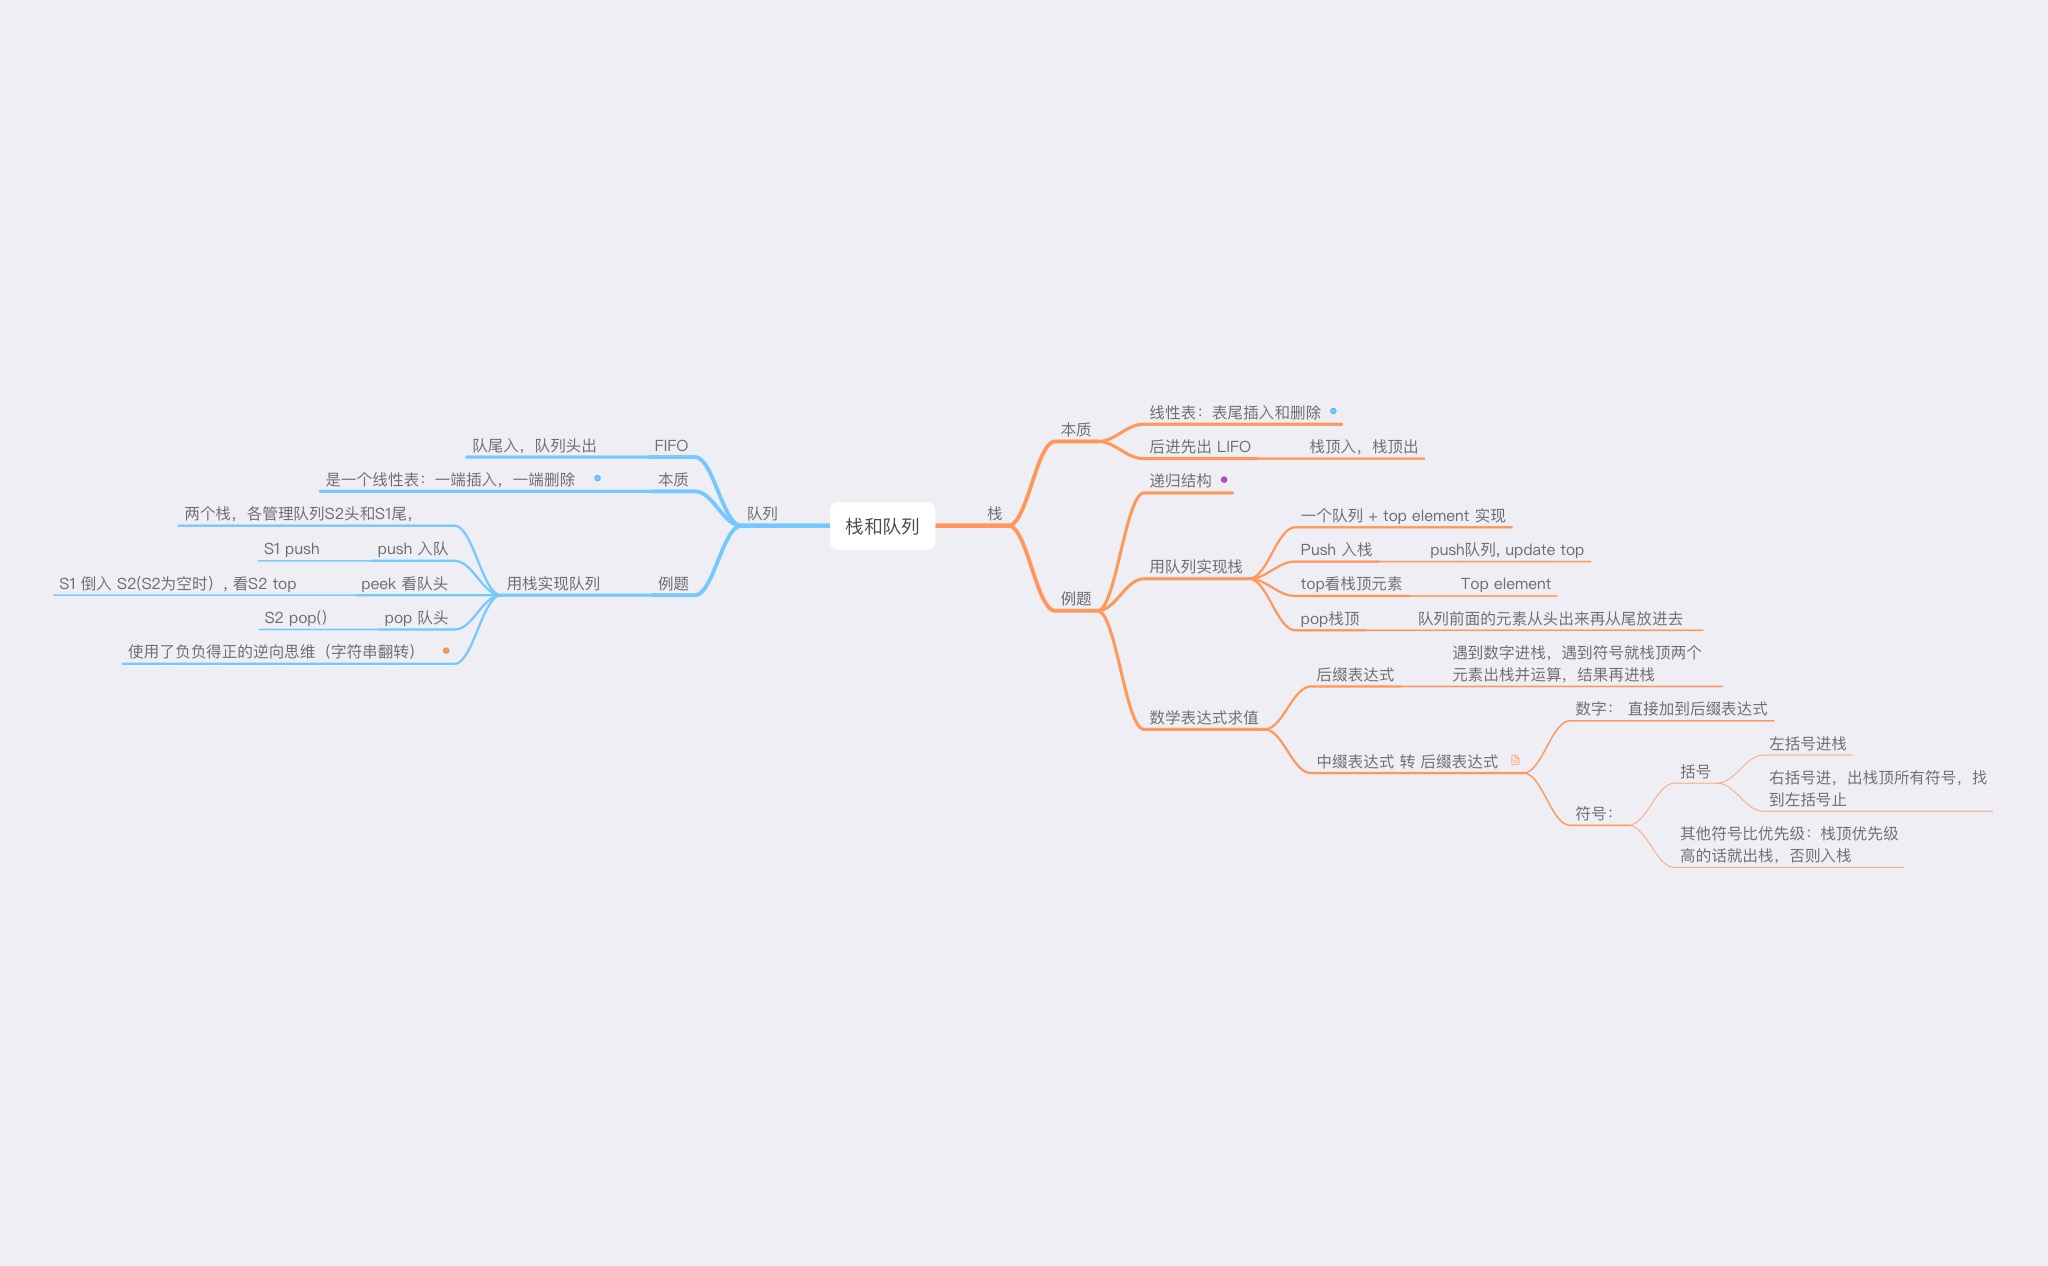
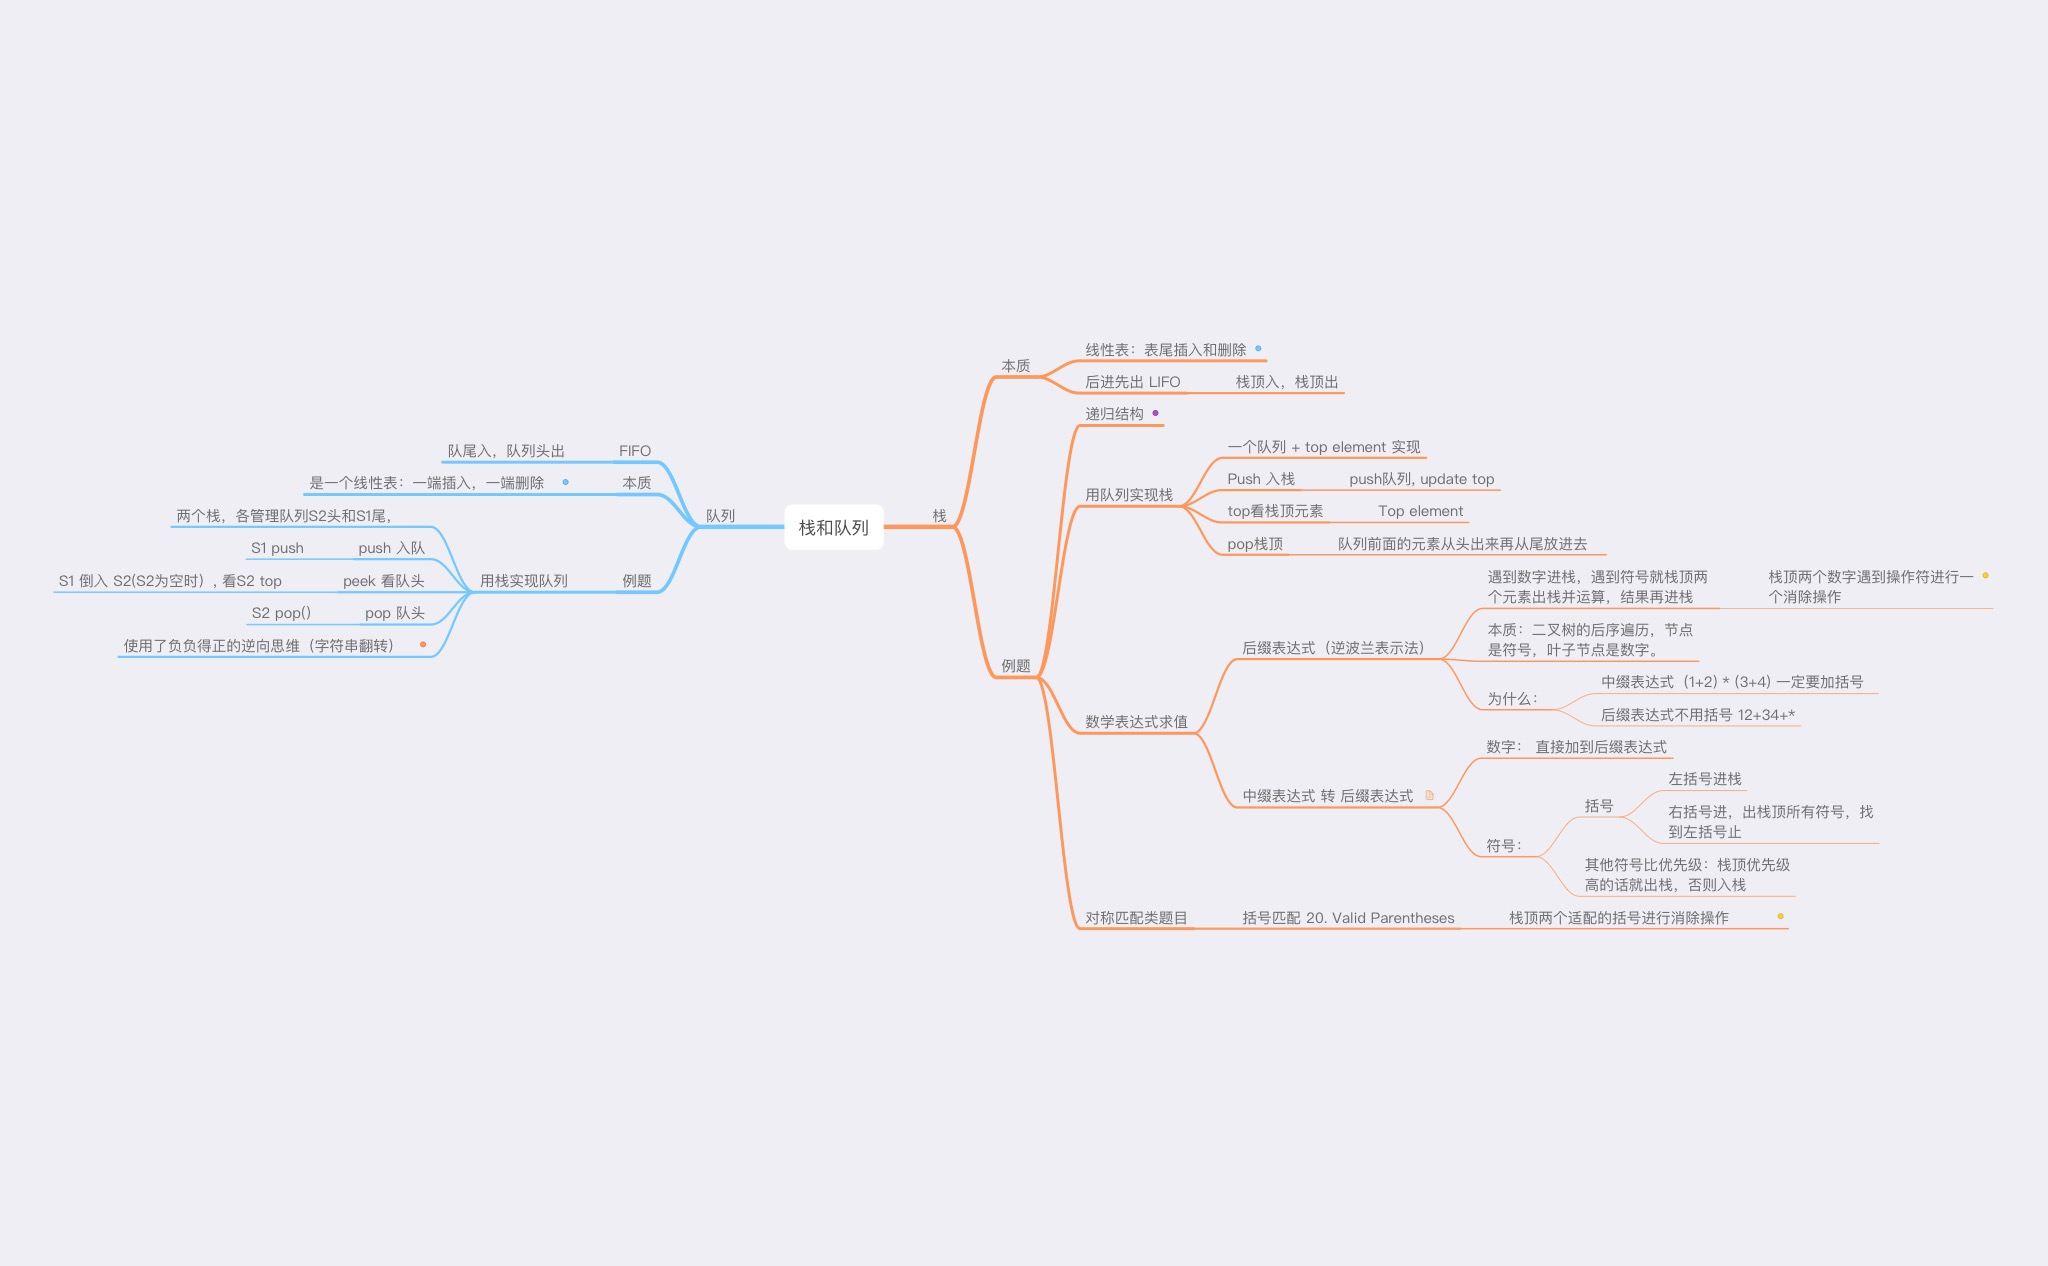
day10 stack

diff --git a/Questions/Stack and Queue/[20] Valid Parentheses.md b/Questions/Stack and Queue/[20] Valid Parentheses.md
@@ -1,0 +1,94 @@
+## Resource:
+[代码随想录 括号匹配](https://programmercarl.com/0020.%E6%9C%89%E6%95%88%E7%9A%84%E6%8B%AC%E5%8F%B7.html#%E8%BF%9B%E5%85%A5%E6%AD%A3%E9%A2%98)
+# [Valid Parentheses - LeetCode](https://leetcode.com/problems/valid-parentheses/description/)
+## Tag
+Stack, 括号匹配
+## 审题（关键词） 
+String, isValid, Parentheses(Pair)
+
+## 初始思路  
+括号一般是**成对**出现的。  
+
+判断valid也就是判断括号是否都有**成对**，且左右括号的位置**无法颠倒**。  
+
+判断成对的方法：
+1. 计算左右括号的数量
+	a. 简化问题： 只有一个括号对()。
+	b. 那么可以使用一个counter = 0来记录数量，**'(' +1, ')' -1**, **不能出现<0**（无法颠倒）最后看是否等于0（是否都有对）
+	c. “[{]}” 这种情况不匹配。所以单纯计算数量不可取。
+	
+2. 使用栈
+	a. 简化问题： 只有一个括号对()
+	b. 使用一个栈左括号入栈，右括号出栈，最后看是否栈为空（无法颠倒且每一个括号都有对）
+	c. 如果有多个括号，则还要加条件，出栈时需要判断当时括号是否和栈顶匹配。
+
+## 考点  
+栈的对称匹配运用（括号匹配）  
+几种匹配不等的情况：
+
+1. 第一种情况，字符串里左方向的括号多余了 ，所以不匹配。 括号匹配1 {{{}
+2. 第二种情况，括号没有多余，但是 括号的类型没有匹配上。 括号匹配2 [{]}
+3. 第三种情况，字符串里右方向的括号多余了，所以不匹配。{}}}
+## 解法  
+```java
+// 定义一个名为 Solution 的类
+class Solution {
+    // 定义一个名为 isValid 的公共方法，接收一个字符串 s 作为参数，并返回一个布尔值
+    public boolean isValid(String s) {
+        // 创建一个字符栈
+        Stack<Character> stack = new Stack<>();
+        // 创建一个括号映射
+        Map<Character, Character> parenthesesMap = createParentheseMap();
+    
+        // 将输入字符串 s 转换为字符数组 chrs
+        char[] chrs = s.toCharArray();
+        
+        // 遍历字符数组 chrs 中的每一个字符 c
+        for (char c : chrs) {
+            // 如果字符 c 是一个左括号，将其压入栈中
+            if (c == '(' || c == '{' || c == '[') {
+                stack.push(c);
+            }
+
+            // 如果字符 c 是一个右括号
+            if (c == ')' || c == '}' || c == ']') {
+
+                // 如果栈为空，说明右括号没有与之匹配的左括号，返回 false
+                if (stack.isEmpty()) {
+                    return false;
+                }
+
+                // 从栈顶弹出一个字符，将其赋值给变量 top
+                char top = stack.pop();
+                // 获取字符 c 对应的左括号，并赋值给变量 current
+                char current = parenthesesMap.get(c);
+
+                // 如果栈顶字符 top 与 current 不匹配，返回 false
+                if (top != current) {
+                    return false;
+                }
+            }
+        }
+
+        // 如果栈的大小为 0，说明所有括号都已经匹配成功，返回 true，否则返回 false
+        return stack.size() == 0;
+    }
+
+    // 定义一个名为 createParentheseMap 的私有方法，返回一个字符映射
+    private Map<Character, Character> createParentheseMap() {
+        // 创建一个名为 parenthesesMap 的哈希映射
+        Map<Character, Character> parenthesesMap = new HashMap<>();
+        // 将右括号 ')' 映射到左括号 '('
+        parenthesesMap.put(')', '(');
+        // 将右括号 '}' 映射到左括号 '{'
+        parenthesesMap.put('}', '{');
+        // 将右括号 ']' 映射到左括号 '['
+        parenthesesMap.put(']', '[');
+        // 返回括号映射
+        return parenthesesMap;
+    }
+}
+```
+
+##  难点
+我一开始以为 case2: [{]}是合法的，所以使用counter计数法以及想用三个栈分别记录不同的括号。

diff --git a/Questions/Stack and Queue/[1047] Remove All Adjacent Duplicates In String.md b/Questions/Stack and Queue/[1047] Remove All Adjacent Duplicates In String.md
@@ -1,0 +1,78 @@
+## Tag
+stack, 堆成匹配
+## 审题（关键词） 
+Duplicate removal, adjacent and equal(duplicate), 
+## 初始思路  
+暴力思路： 
+使用hashmap，key 是 char, value 是 frequency, 但很难处理**相邻**这个条件。
+
+注意到关键词相连的，所以我们需要反复比较当前元素和上一个入栈元素即相邻元素。
+且移除相邻元素后又会出现新的匹配，比如 zxxz。
+
+那么可以用栈，利用栈的LIFO。
+和20括号匹配思路一致。
+
+## 考点  
+栈的对称匹配题型
+
+## 解法  
+```java
+class Solution {
+    public String removeDuplicates(String s) {
+        // 创建一个字符栈
+        Stack<Character> stack = new Stack<>();
+
+        // 将输入字符串 s 转换为字符数组 chrs
+        char[] chrs = s.toCharArray();
+        // 或者使用 s.charAt(index);
+
+        // 遍历字符数组 chrs 中的每一个字符 c
+        for (char c : chrs) {
+            // 如果栈为空，或者栈顶元素与字符 c 不相等
+            if (stack.isEmpty() || stack.peek() != c) {
+                // 将字符 c 压入栈中
+                stack.push(c);
+            } else {
+                // 否则，弹出栈顶元素（即移除重复的相邻字符）
+                stack.pop();
+            }
+        }
+
+        // 使用 StringBuilder 优化字符串拼接
+        StringBuilder ret = new StringBuilder();
+        // 当栈不为空时，执行以下操作
+        while (!stack.isEmpty()) {
+        // 弹出栈顶元素，并将其添加到 StringBuilder ret 的末尾
+        ret.append(stack.pop());
+        }
+
+        // 返回去重后的字符串
+        return ret.toString();
+    }
+    
+    public String removeDuplicates2(String s) {
+        // 将 res 当做栈
+        // 也可以用 StringBuilder 来修改字符串，速度更快
+        // StringBuilder res = new StringBuilder();
+        StringBuffer res = new StringBuffer();
+        // top为 res 的长度
+        int top = -1;
+        for (int i = 0; i < s.length(); i++) {
+            char c = s.charAt(i);
+            // 当 top > 0,即栈中有字符时，当前字符如果和栈中字符相等，弹出栈顶字符，同时 top--
+            if (top >= 0 && res.charAt(top) == c) {
+                res.deleteCharAt(top);
+                top--;
+            // 否则，将该字符 入栈，同时top++
+            } else {
+                res.append(c);
+                top++;
+            }
+        }
+        return res.toString();
+    }
+}
+```
+
+## 难点
+如何想到使用栈。

diff --git a/Questions/Stack and Queue/[150] Evaluate Reverse Polish Notation.md b/Questions/Stack and Queue/[150] Evaluate Reverse Polish Notation.md
@@ -1,0 +1,59 @@
+# [Evaluate Reverse Polish Notation - LeetCode](https://leetcode.com/problems/evaluate-reverse-polish-notation/description/)
+
+## Tag
+Stack, Reverse Polish Notation
+
+## 审题（关键词） 
+Reverse Polish Notation
+
+## 初始思路  
+遇到数字进栈，遇到符号就栈顶两个元素出栈并运算，结果再进栈。  
+
+本质还是一个消除操作： 栈顶两个数字遇到操作符进行一个消除操作。 
+
+和20括号匹配（消除栈顶括号一致的）以及1047移除重复（消除栈顶字符一致）思路一致，只不过变换了一下触发消除的条件。  
+
+## 考点 
+栈的使用，后缀表达式（逆波兰表达式）。
+
+## 解法  
+```java
+class Solution {
+    public int evalRPN(String[] tokens) {
+        Stack<Integer> stack = new Stack<>();
+        for (String s : tokens) {
+            if ("+-*/".contains(s)) {
+                stack.push(operate(stack.pop(), stack.pop(), s));
+            } else {
+                stack.push(Integer.parseInt(s));
+            }
+        }
+
+        return stack.pop();
+    }
+
+    private int operate(int a, int b, String op) {
+        int ans = 0;
+
+        switch(op) {
+            case "+":
+                ans = a + b;
+                break;
+            case "-":
+                ans = b - a;
+                break;
+            case "*":
+                ans = a * b;
+                break;
+            case "/":
+                ans = b / a;
+                break;
+        }
+
+        return ans;
+    }
+}
+```
+
+## 难点
+理解逆波兰表达式，如何想到栈。

diff --git a/Questions/Stack and Queue/[Summary] Stack&queue.md b/Questions/Stack and Queue/[Summary] Stack&queue.md
@@ -1,0 +1,2 @@
+# Mind Map
+![stackQueue](../../MindMaps/Data%20Structure/栈和队列.mindnode/QuickLook/Preview.jpg)
